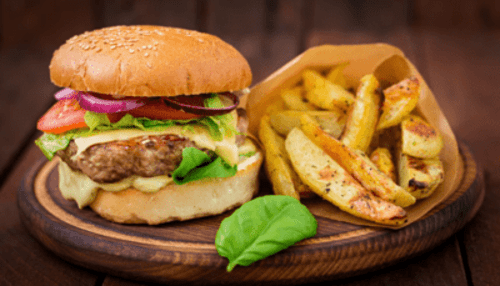
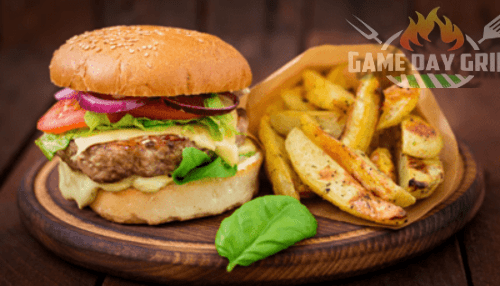
water mark and we are done with the index

Changed region(s): [[0.69, 0.028, 1.0, 0.3077]]

diff --git a/index.html b/index.html
@@ -187,74 +187,7 @@
 
   </div>
 
-  <!-- offer section -->
-
-  <style>
-    #centeredText p {
-      font-style: italic;
-      font-family: 'Dancing Script', cursive;
-      font-size: 1.2em; /* Adjust the size as needed */
-      font-weight: bold; /* Adjust the weight as needed */
-      color: rgb(221, 199, 199); /* Set the font color to black */
-    }
-  </style>
   
-  <div id="centeredContainer">
-    <div class="image-container">
-      <img id="centeredImage" src="images/c870x524 (3).png" alt="Centered Image">
-      <div id="centeredText">
-        <p style="font-size: 50px; color: #dad6d6; text-shadow: 2px 2px 5px rgba(0, 0, 0, 0.7);">Delicious Moments Await!</p>
-        <a href="order_online.html">
-          <button id="orderButton">Order Now</button>
-        </a>
-      </div>
-    </div>
-  </div>
-  
-  
-  
-  
-  
-  <style>
-    #centeredText p {
-      font-style: italic;
-      font-family: 'Dancing Script', cursive;
-      font-size: 1.2em; /* Adjust the size as needed */
-      font-weight: bold; /* Adjust the weight as needed */
-      color: rgb(221, 199, 199); /* Set the font color to black */
-    }
-  </style>
-  
-  
-  <div class="container">
-    <div class="row justify-content-center py-3">
-      <div class="col-md-5 text-center">
-        <!-- First centered image with About Us button -->
-        <div class="image-container d-flex flex-column align-items-center">
-          <img src="images/416060106_391158146605378_9045848083691411808_n (2) (1).png">
-          <div class="about-button-container mt-auto">
-            <a href="about.html" class="btn btn-success">About Us</a>
-          </div>
-        </div>
-      </div>
-      <div class="col-md-.5"></div> <!-- Space between images -->
-      <div class="col-md-5 text-center">
-        <!-- Second centered image with Book Table button -->
-        <div class="image-container d-flex flex-column align-items-center">
-          <img src="images/BBQ Bacon CHeddar Burger1.jpg" class="img-fluid" alt="Second Image" style="width: 100%; max-width: none;">
-          <div class="about-button-container mt-auto">
-            <a href="book.html" class="btn btn-success">Book Table</a>
-          </div>
-        </div>
-      </div>
-    </div>
-  </div>
-</div>
-          
-          <!-- Add more HTML content or close the body and html tags as needed -->
-  </section>
-
-  <!-- end offer section -->
 
   <!-- food section -->
 
